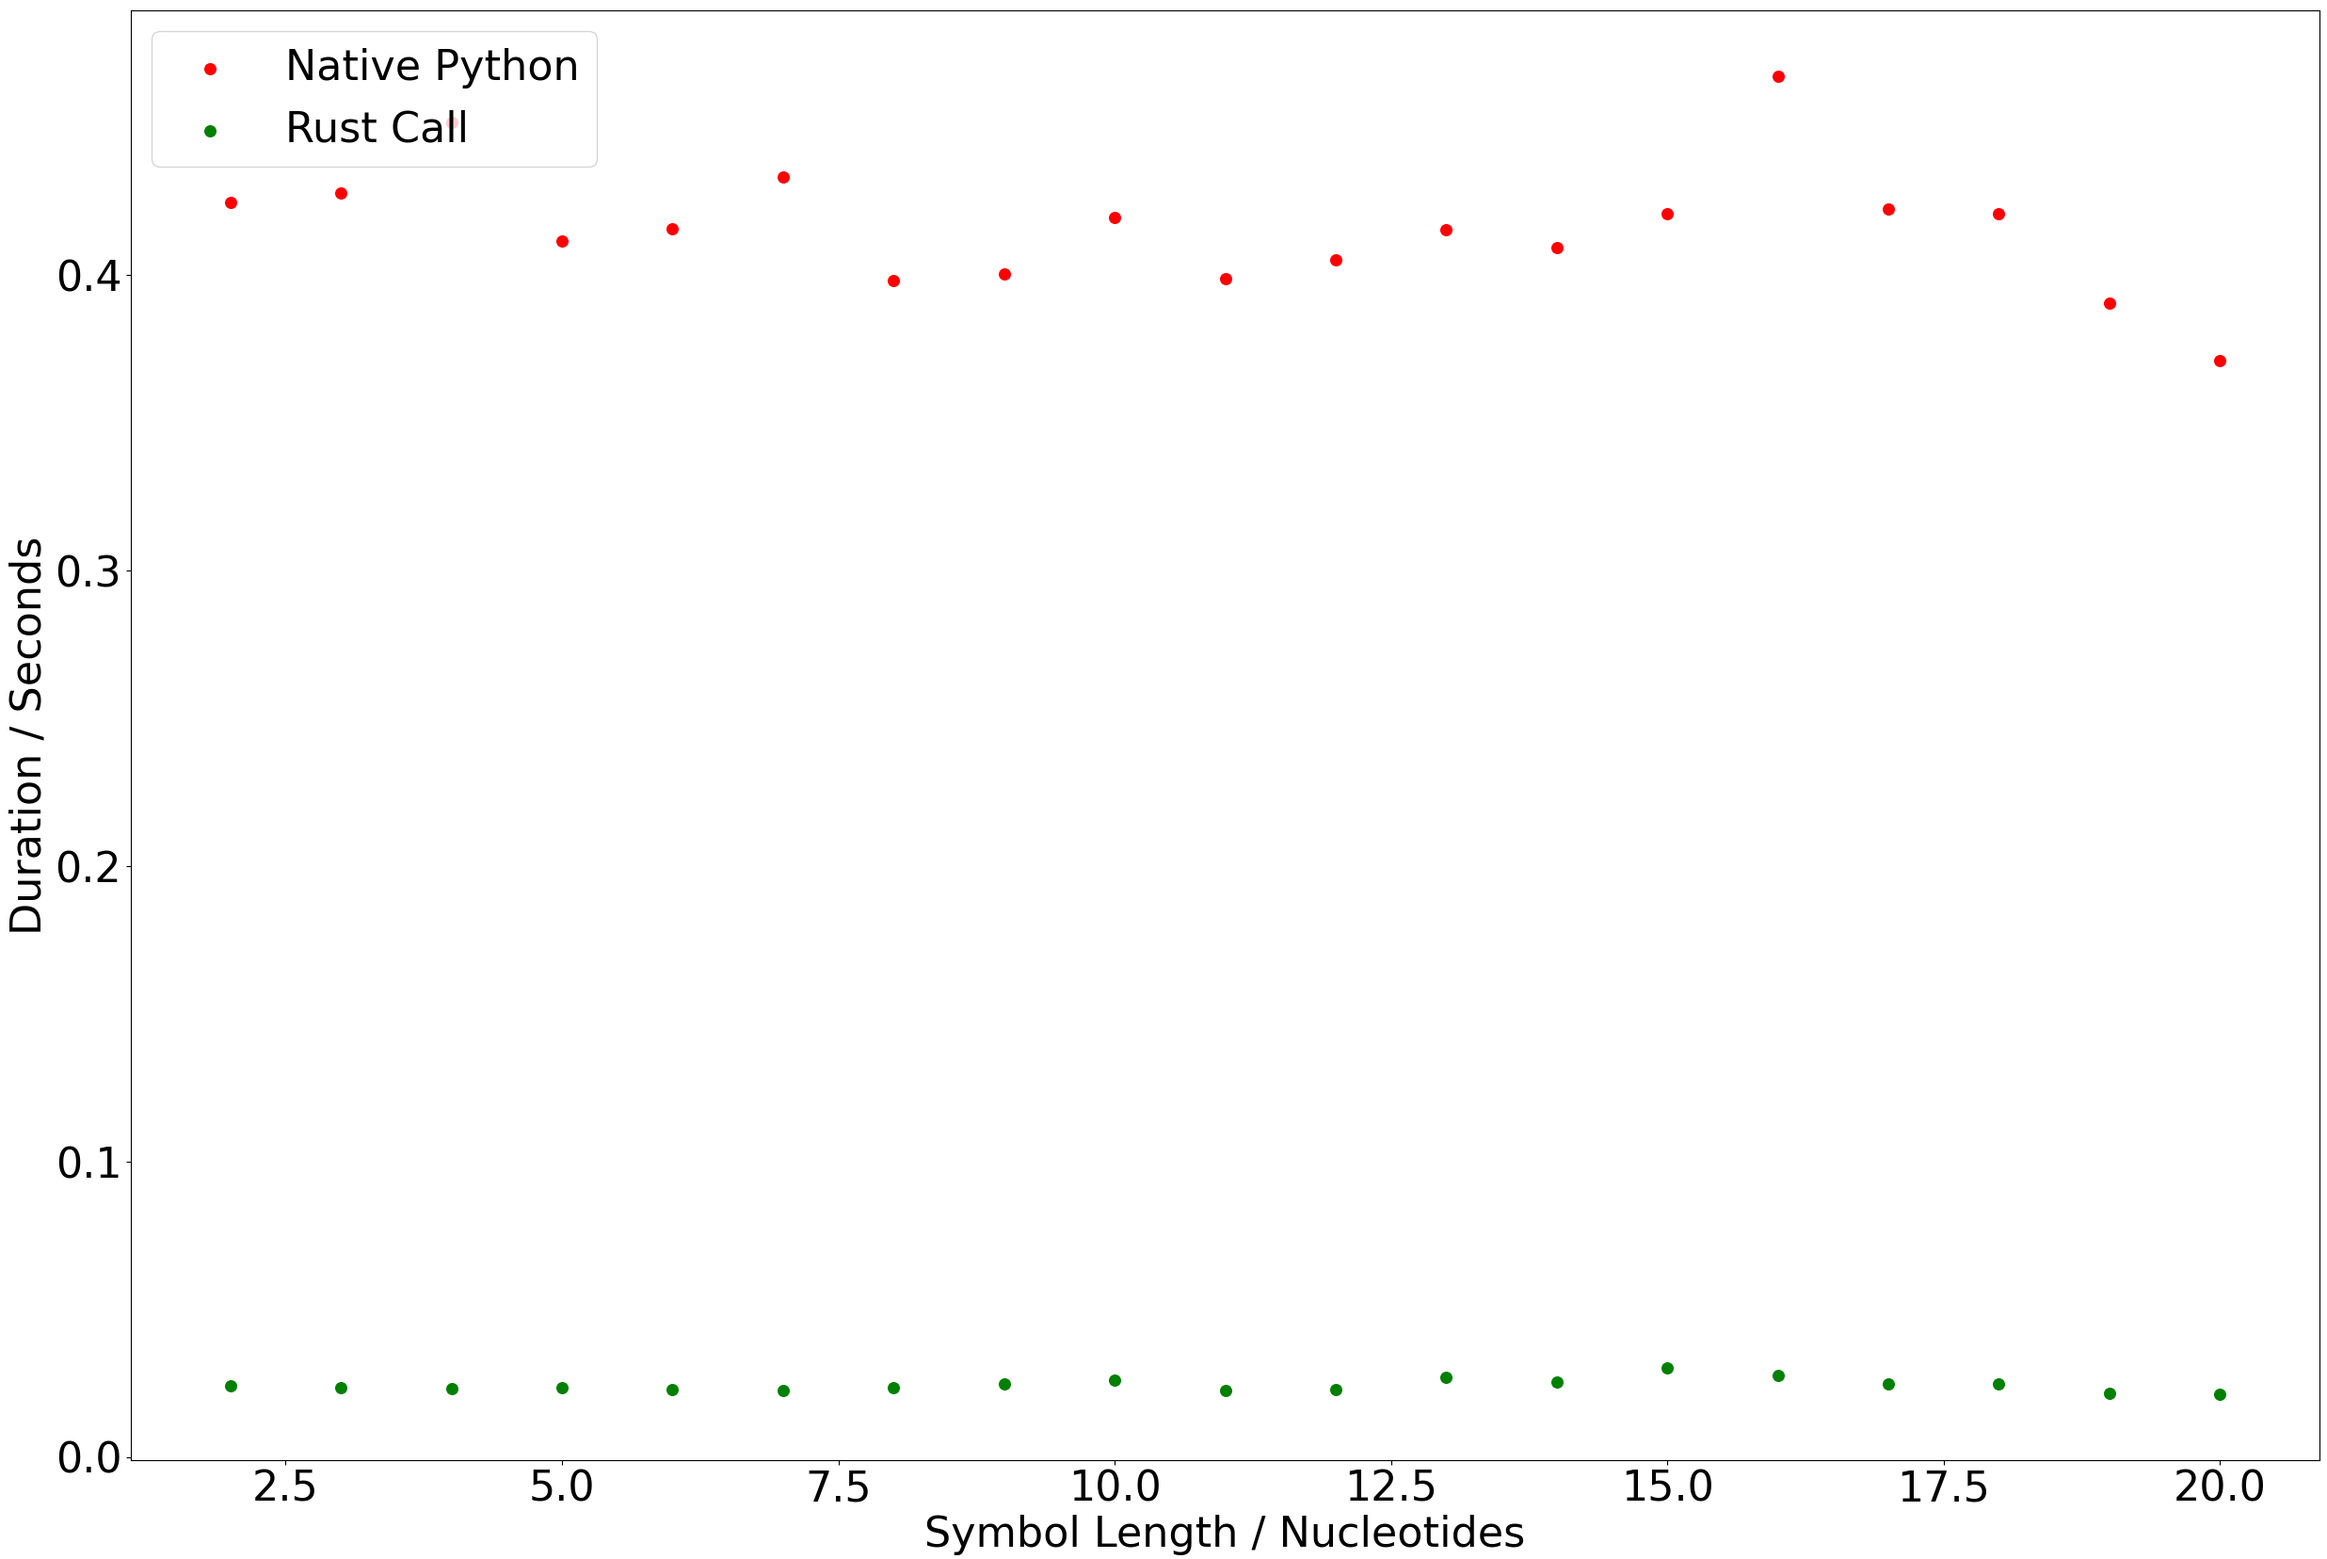
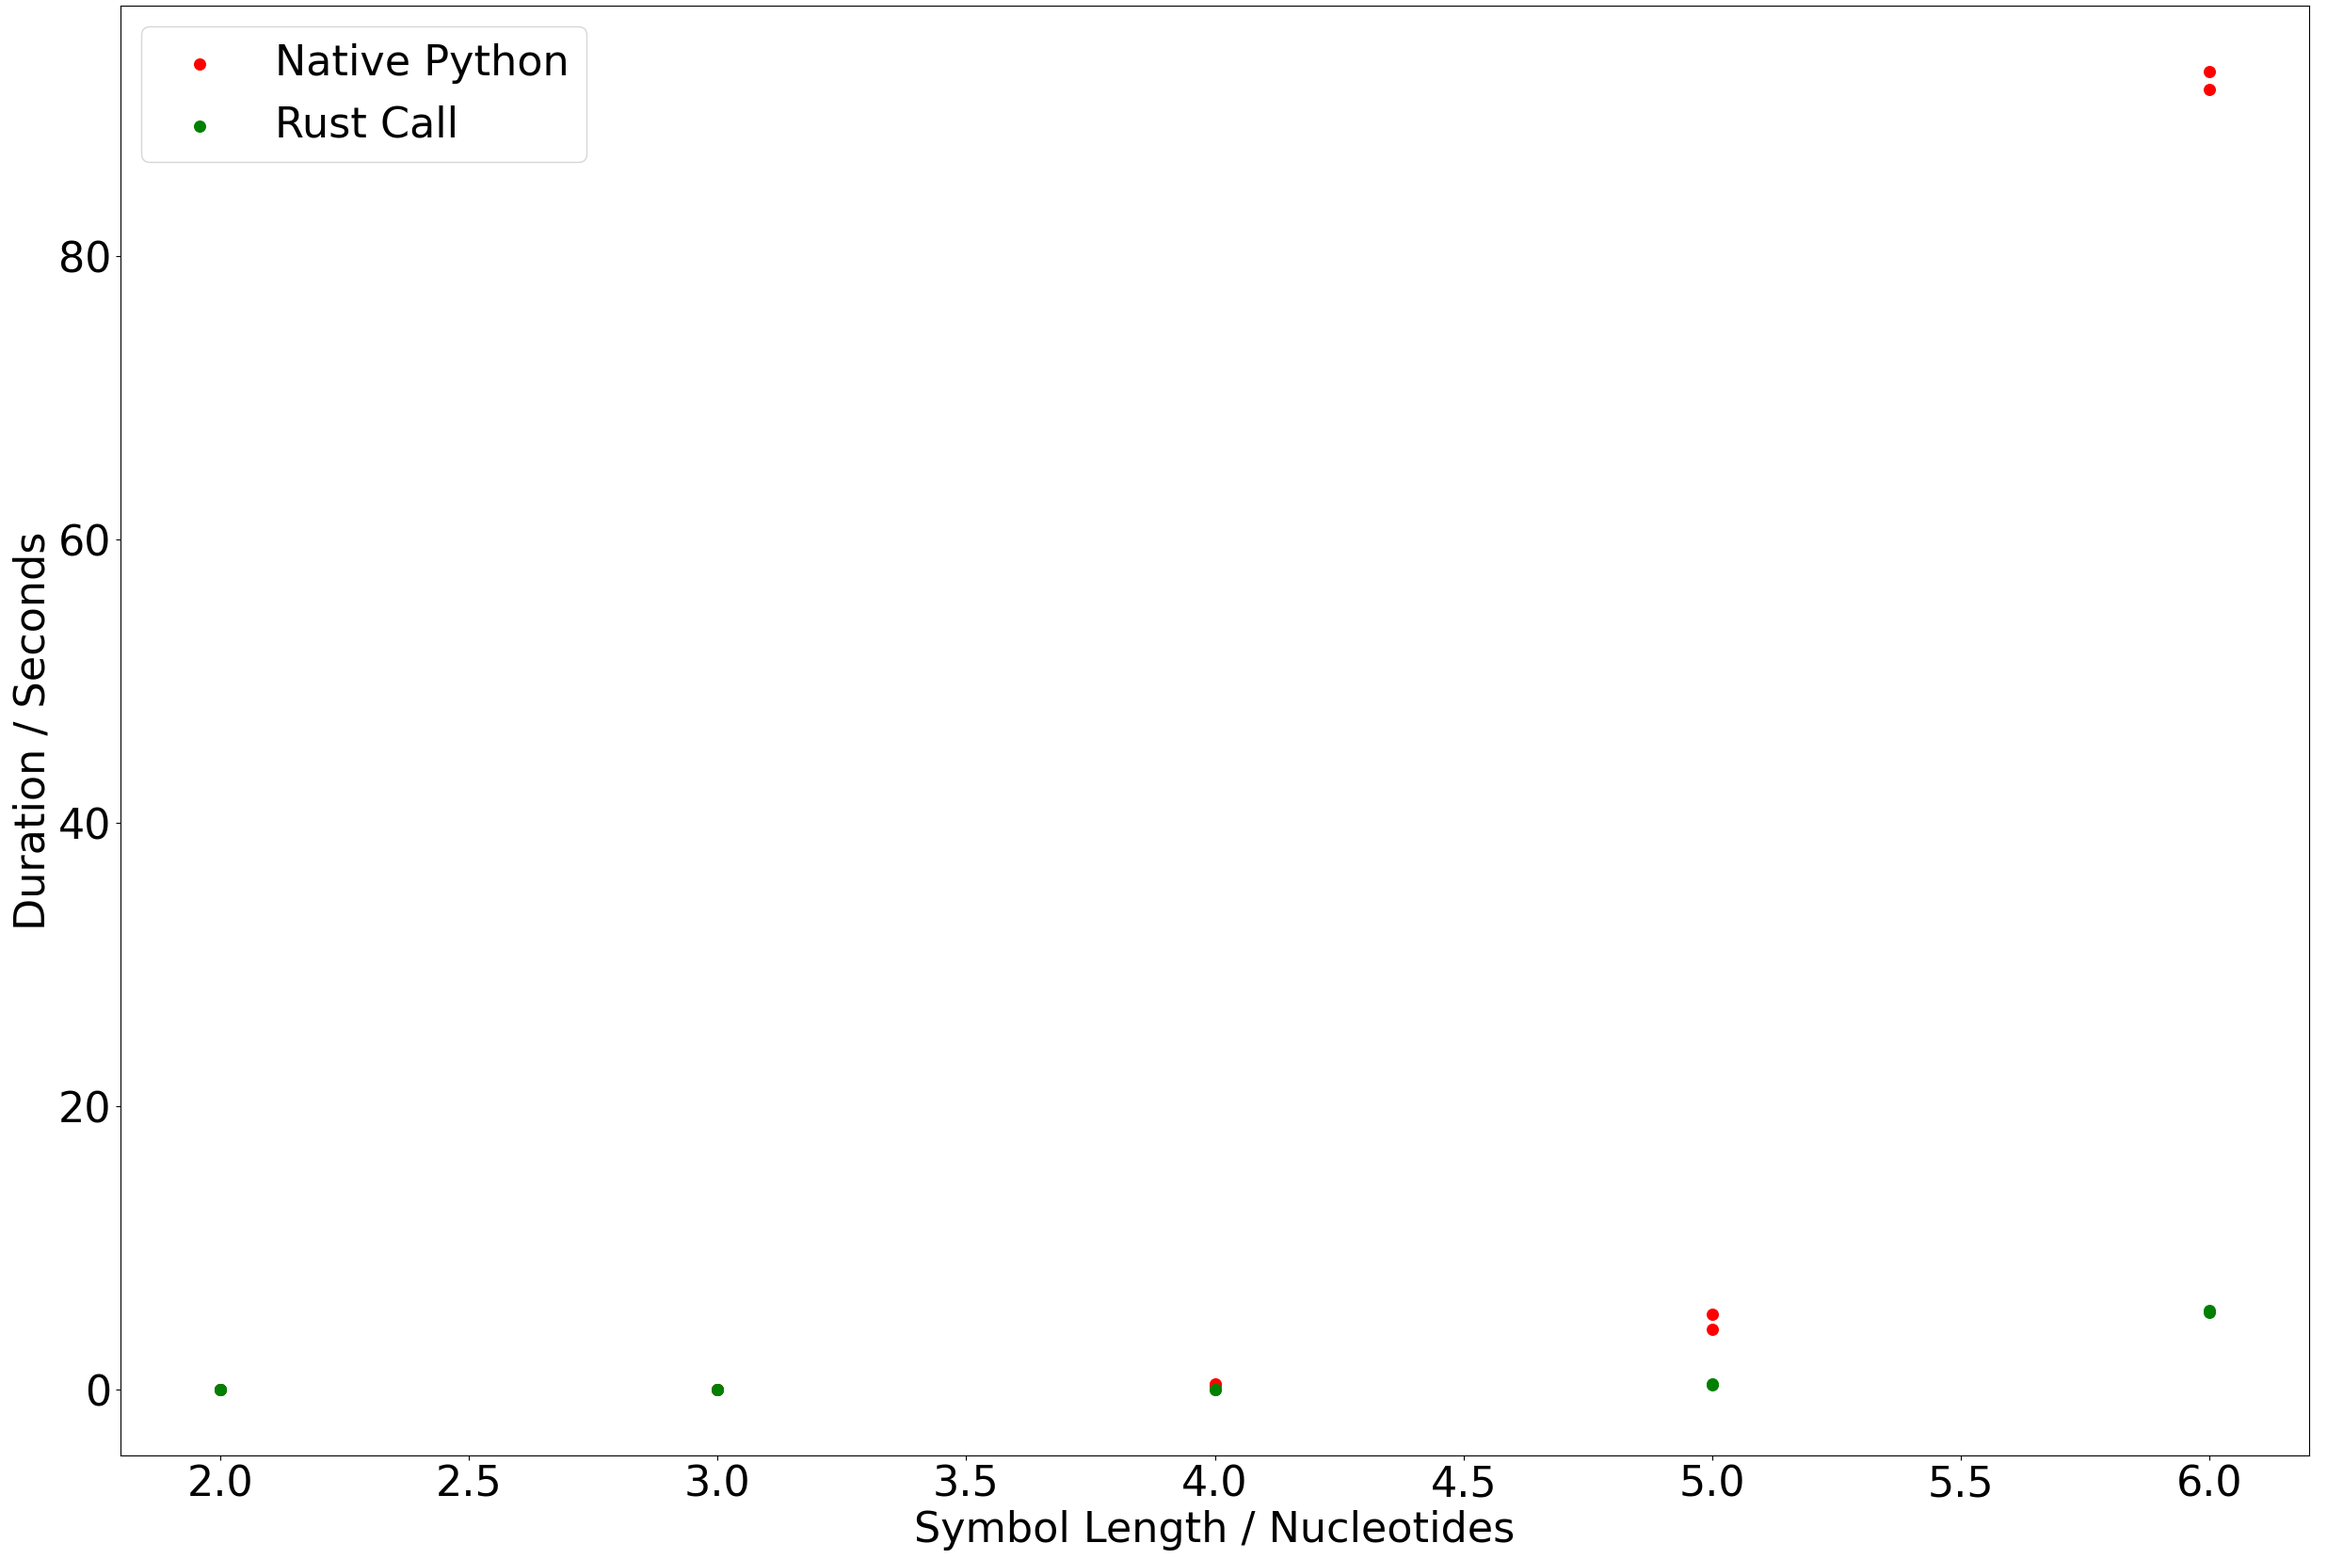
Fix profiling code and run some profiles

diff --git a/rust_profile.py b/rust_profile.py
@@ -1,6 +1,7 @@
 import time
 import encoding
 import viterbi
+from constraints import default_constraints
 from experiments import Parameters
 from graphing import plot
 from utils import inject_base_errors, rand_bit_string
@@ -27,6 +28,8 @@ def profile(config: Parameters, fsm_only: bool = False) -> tuple[float, float, f
     constraints = (
         config.constraints.gc_min,
         config.constraints.gc_max,
+        config.constraints.str_lower,
+        config.constraints.str_upper,
         config.constraints.max_run_length,
         config.constraints.reserved,
     )
@@ -67,7 +70,7 @@ if __name__ == "__main__":
     sequence_lengths.extend(range(360, 720, 90))
     sequence_lengths.extend(range(720, 1300, 180))
 
-    symbol_sizes = list(range(2, 21))
+    symbol_sizes = list(range(2, 8))
 
     fsm_dur = []
     enc_dur = []
@@ -80,9 +83,27 @@ if __name__ == "__main__":
         dec_dur.append(dec)
         tot_dur.append(tot)
 
-    for length in symbol_sizes:
-        fsm, _, _, _ = profile(Parameters(sequence_length=length), fsm_only=True)
-        fsm_dur.append(fsm)
+    # for length in symbol_sizes:
+    #     constraints = default_constraints(
+    #         symbol_size=length,
+    #         gc_min=0.0,
+    #         gc_max=1.0,
+    #         str_lower=length,
+    #         str_upper=length,
+    #         restriction_sites=[],
+    #         primers=[],
+    #     )
+
+    #     fsm, enc, dec, tot = profile(
+    #         Parameters(
+    #             symbol_size=length,
+    #             reserved_bits=length,
+    #             constraints=constraints,
+    #             sequence_length=420,
+    #         ),
+    #         fsm_only=False,
+    #     )
+    #     tot_dur.append(tot)
 
     print("===================== RESULTS =======================")
     print(f"SEQUENCE LENGTHS : {sequence_lengths}")
@@ -91,33 +112,33 @@ if __name__ == "__main__":
     print(f"DEC DURATION   : {dec_dur}")
     print(f"TOTAL DURATION : {tot_dur}")
 
-    plot(
-        "rust-fsm-profile",
-        symbol_sizes,
-        fsm_dur,
-        "Symbol Length / nucleotides",
-        "Duration / seconds",
-        "",
-        fit=False,
-    )
-    plot(
-        "rust-enc-profile",
-        sequence_lengths,
-        enc_dur,
-        "Sequence Length / bits",
-        "Duration / seconds",
-        "",
-        fit=False,
-    )
-    plot(
-        "rust-dec-profile",
-        sequence_lengths,
-        dec_dur,
-        "Sequence Length / bits",
-        "Duration / seconds",
-        "",
-        fit=False,
-    )
+    # plot(
+    #     "rust-fsm-profile",
+    #     symbol_sizes,
+    #     fsm_dur,
+    #     "Symbol Length / nucleotides",
+    #     "Duration / seconds",
+    #     "",
+    #     fit=False,
+    # )
+    # plot(
+    #     "rust-enc-profile",
+    #     sequence_lengths,
+    #     enc_dur,
+    #     "Symbo Length / nucleotides",
+    #     "Duration / seconds",
+    #     "",
+    #     fit=False,
+    # )
+    # plot(
+    #     "rust-dec-profile",
+    #     sequence_lengths,
+    #     dec_dur,
+    #     "Symbol Length / nucleotides",
+    #     "Duration / seconds",
+    #     "",
+    #     fit=False,
+    # )
     plot(
         "rust-tot-profile",
         sequence_lengths,

diff --git a/profiling.py b/profiling.py
@@ -1,3 +1,4 @@
+from constraints import default_constraints
 from experiments import Parameters
 from graphing import multiplot
 from python_profile import profile as pyprof
@@ -8,7 +9,7 @@ if __name__ == "__main__":
     sequence_lengths.extend(range(360, 720, 90))
     sequence_lengths.extend(range(720, 1300, 180))
 
-    symbol_sizes = list(range(2, 21))
+    symbol_sizes = list(range(2, 7)) * 2
 
     fsm_dur = [[], []]
     enc_dur = [[], []]
@@ -27,10 +28,30 @@ if __name__ == "__main__":
     #     tot_dur[1].append(tot)
 
     for length in symbol_sizes:
-        fsm, _, _, _ = pyprof(Parameters(sequence_length=length), fsm_only=True)
+        constraints = default_constraints(
+            symbol_size=length,
+            gc_min=0.0,
+            gc_max=1.0,
+            str_lower=length,
+            str_upper=length,
+            restriction_sites=[],
+            primers=[],
+        )
+
+        fsm, _, _, _ = pyprof(
+            Parameters(
+                symbol_size=length, reserved_bits=length, constraints=constraints
+            ),
+            fsm_only=True,
+        )
         fsm_dur[0].append(fsm)
 
-        fsm, _, _, _ = rsprof(Parameters(sequence_length=length), fsm_only=True)
+        fsm, _, _, _ = rsprof(
+            Parameters(
+                symbol_size=length, reserved_bits=length, constraints=constraints
+            ),
+            fsm_only=True,
+        )
         fsm_dur[1].append(fsm)
 
     labels = ["Native Python", "Rust Call"]

diff --git a/python_profile.py b/python_profile.py
@@ -1,4 +1,5 @@
 import time
+from constraints import default_constraints
 from data_types import Path
 from dna_mapping import bits_to_dna, dna_to_bits
 from experiments import Parameters
@@ -76,7 +77,22 @@ if __name__ == "__main__":
         tot_dur.append(tot)
 
     for length in symbol_sizes:
-        fsm, _, _, _ = profile(Parameters(sequence_length=length), fsm_only=True)
+        constraints = default_constraints(
+            symbol_size=length,
+            gc_min=0.0,
+            gc_max=1.0,
+            str_lower=length,
+            str_upper=length,
+            restriction_sites=[],
+            primers=[],
+        )
+
+        fsm, enc, dec, tot = profile(
+            Parameters(
+                symbol_size=length, reserved_bits=length, constraints=constraints
+            ),
+            fsm_only=True,
+        )
         fsm_dur.append(fsm)
 
     print("===================== RESULTS =======================")

diff --git a/graphing.py b/graphing.py
@@ -58,7 +58,7 @@ def multiplot(
     else:
         plt.legend(loc="upper left")
 
-    plt.legend(loc="upper right")
+    # plt.legend(loc="upper right")
     file_name = name if fit else f"{name}-no-trend"
     fig.savefig(f"plots/{file_name}.png")
     plt.show()
